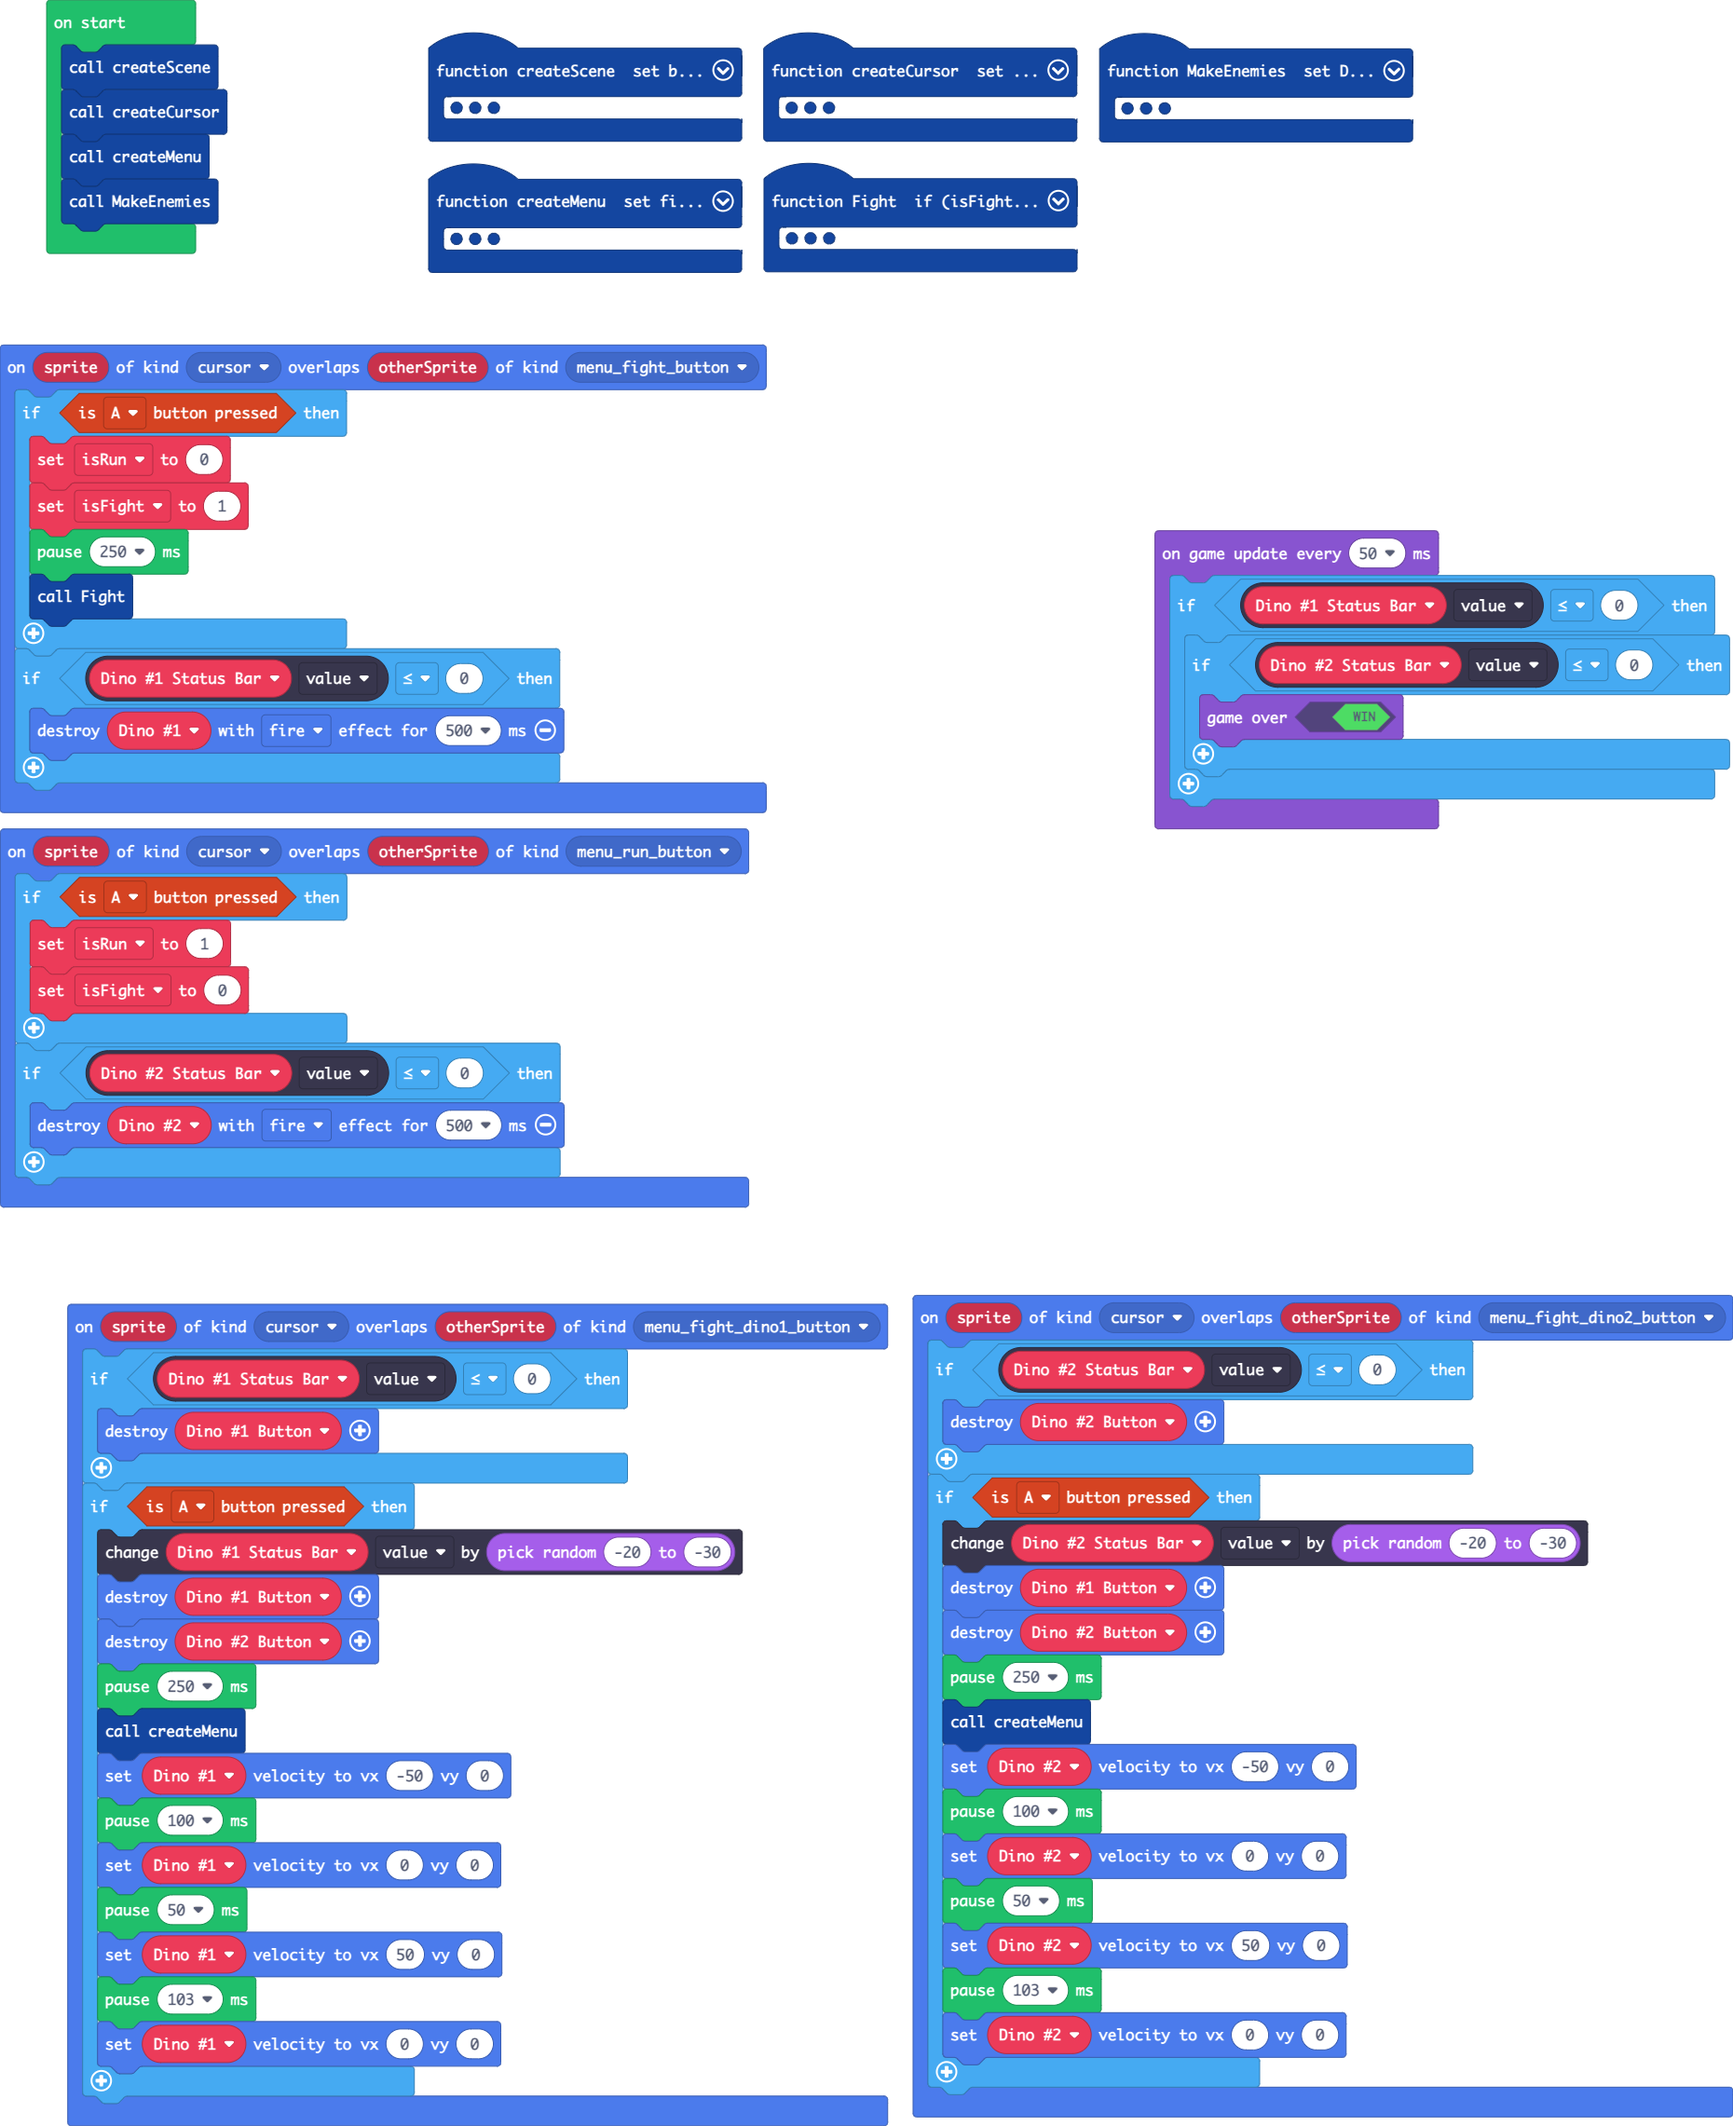
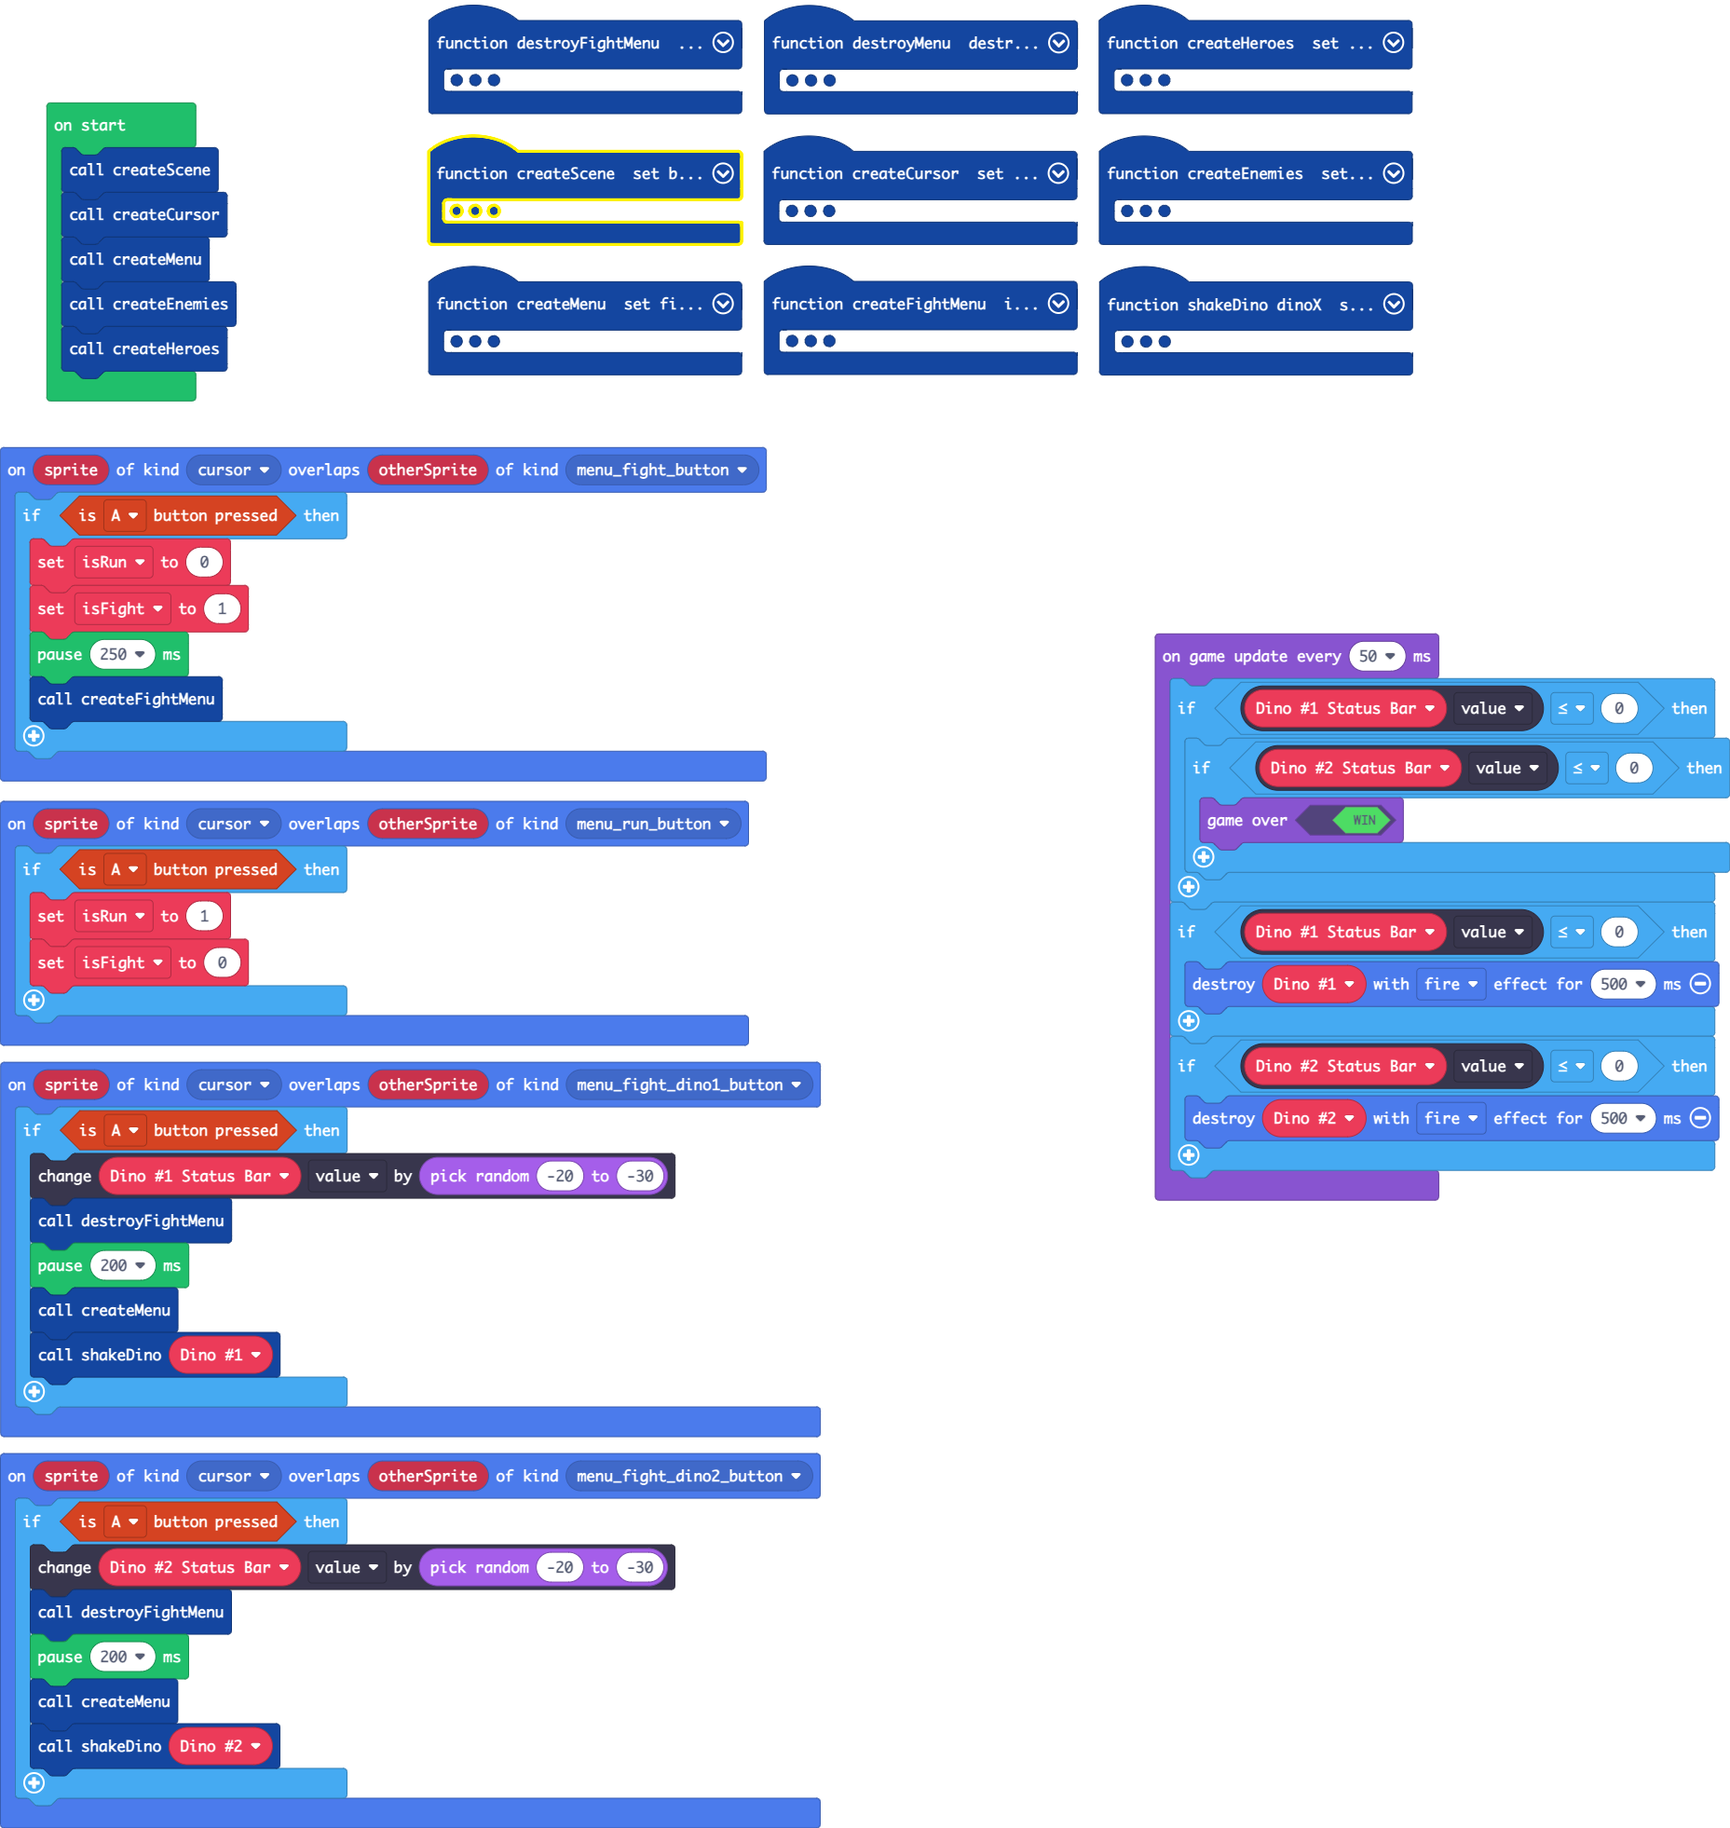
createHero function (not in createEnemies), destroy dino on game update event, rename a func to createFightMenu, made destroyMenu and destoryFightMenu, shakeDino

diff --git a/main.ts b/main.ts
@@ -6,7 +6,70 @@ namespace SpriteKind {
     export const Hero = SpriteKind.create()
     export const menu_fight_dino2_button = SpriteKind.create()
 }
-function MakeEnemies () {
+function destroyFightMenu () {
+    if (Dino_1_Status_Bar.value <= 0) {
+        sprites.destroy(Dino_1_Button)
+    }
+    if (Dino_2_Status_Bar.value <= 0) {
+        sprites.destroy(Dino_2_Button)
+    }
+    sprites.destroy(Dino_1_Button)
+    sprites.destroy(Dino_2_Button)
+}
+function createHeroes () {
+    Hero = sprites.create(img`
+        ...............ff.......
+        .............ff2ffff....
+        ............ff2feeeeff..
+        ...........ff22feeeeeff.
+        ...........feeeeffeeeef.
+        ..........fe2222eefffff.
+        ..........f2effff222efff
+        ..........fffeeeffffffff
+        ..........fee44fbe44efef
+        ...........feddfb4d4eef.
+        ..........c.eeddd4eeef..
+        ...cccccccceddee2222f...
+        ....cdddddcedd44e444f...
+        .....cccccc.eeeefffff...
+        ..........c...ffffffff..
+        ...............ff..fff..
+        `, SpriteKind.Hero)
+    tiles.placeOnTile(Hero, tiles.getTileLocation(8, 1))
+}
+sprites.onOverlap(SpriteKind.cursor, SpriteKind.menu_fight_dino1_button, function (sprite, otherSprite) {
+    if (controller.A.isPressed()) {
+        Dino_1_Status_Bar.value += randint(-20, -30)
+        destroyFightMenu()
+        pause(200)
+        createMenu()
+        shakeDino(Dino_1)
+    }
+})
+sprites.onOverlap(SpriteKind.cursor, SpriteKind.menu_fight_button, function (sprite, otherSprite) {
+    if (controller.A.isPressed()) {
+        isRun = 0
+        isFight = 1
+        pause(250)
+        createFightMenu()
+    }
+})
+sprites.onOverlap(SpriteKind.cursor, SpriteKind.menu_run_button, function (sprite, otherSprite) {
+    if (controller.A.isPressed()) {
+        isRun = 1
+        isFight = 0
+    }
+})
+function shakeDino (dinoX: Sprite) {
+    dinoX.setVelocity(-50, 0)
+    pause(100)
+    dinoX.setVelocity(0, 0)
+    pause(50)
+    dinoX.setVelocity(50, 0)
+    pause(103)
+    dinoX.setVelocity(0, 0)
+}
+function createEnemies () {
     Dino_1 = sprites.create(img`
         ........................
         ........................
@@ -69,126 +132,14 @@ function MakeEnemies () {
     Dino_2_Status_Bar.attachToSprite(Dino_2, -30, 0)
     Dino_2_Status_Bar.value = 100
     Dino_2_Status_Bar.setColor(7, 2)
-    Hero = sprites.create(img`
-        ...............ff.......
-        .............ff2ffff....
-        ............ff2feeeeff..
-        ...........ff22feeeeeff.
-        ...........feeeeffeeeef.
-        ..........fe2222eefffff.
-        ..........f2effff222efff
-        ..........fffeeeffffffff
-        ..........fee44fbe44efef
-        ...........feddfb4d4eef.
-        ..........c.eeddd4eeef..
-        ...cccccccceddee2222f...
-        ....cdddddcedd44e444f...
-        .....cccccc.eeeefffff...
-        ..........c...ffffffff..
-        ...............ff..fff..
-        `, SpriteKind.Hero)
-    tiles.placeOnTile(Hero, tiles.getTileLocation(8, 1))
-}
-sprites.onOverlap(SpriteKind.cursor, SpriteKind.menu_fight_dino1_button, function (sprite, otherSprite) {
-    if (Dino_1_Status_Bar.value <= 0) {
-        sprites.destroy(Dino_1_Button)
-    }
-    if (controller.A.isPressed()) {
-        Dino_1_Status_Bar.value += randint(-20, -30)
-        sprites.destroy(Dino_1_Button)
-        sprites.destroy(Dino_2_Button)
-        pause(250)
-        createMenu()
-        Dino_1.setVelocity(-50, 0)
-        pause(100)
-        Dino_1.setVelocity(0, 0)
-        pause(50)
-        Dino_1.setVelocity(50, 0)
-        pause(103)
-        Dino_1.setVelocity(0, 0)
-    }
-})
-sprites.onOverlap(SpriteKind.cursor, SpriteKind.menu_fight_button, function (sprite, otherSprite) {
-    if (controller.A.isPressed()) {
-        isRun = 0
-        isFight = 1
-        pause(250)
-        Fight()
-    }
-    if (Dino_1_Status_Bar.value <= 0) {
-        sprites.destroy(Dino_1, effects.fire, 500)
-    }
-})
-sprites.onOverlap(SpriteKind.cursor, SpriteKind.menu_run_button, function (sprite, otherSprite) {
-    if (controller.A.isPressed()) {
-        isRun = 1
-        isFight = 0
-    }
-    if (Dino_2_Status_Bar.value <= 0) {
-        sprites.destroy(Dino_2, effects.fire, 500)
-    }
-})
-function Fight () {
-    if (isFight == 1) {
-        sprites.destroy(fight)
-        sprites.destroy(run)
-        Dino_1_Button = sprites.create(img`
-            ..................................................
-            ..................................................
-            ..................................................
-            ..................................................
-            .11111....11...................11.11...11.........
-            .11..11.......................1111111.111.........
-            .11...11.111..11111...1111.....11.11...11.........
-            .11...11..11..11..11.11..11....11.11...11.........
-            .11...11..11..11..11.11..11....11.11...11.........
-            .11..11...11..11..11.11..11...1111111..11.........
-            .11111...1111.11..11..1111.....11.11..1111........
-            ..................................................
-            ..................................................
-            ..................................................
-            ..................................................
-            ..................................................
-            `, SpriteKind.menu_fight_dino1_button)
-        tiles.placeOnTile(Dino_1_Button, tiles.getTileLocation(6, 4))
-        Dino_2_Button = sprites.create(img`
-            ..................................................
-            ..................................................
-            ..................................................
-            ..................................................
-            .11111....11...................11.11...11111......
-            .11..11.......................1111111.11...11.....
-            .11...11.111..11111...1111.....11.11......111.....
-            .11...11..11..11..11.11..11....11.11....1111......
-            .11...11..11..11..11.11..11....11.11...1111.......
-            .11..11...11..11..11.11..11...1111111.111.........
-            .11111...1111.11..11..1111.....11.11..1111111.....
-            ..................................................
-            ..................................................
-            ..................................................
-            ..................................................
-            ..................................................
-            `, SpriteKind.menu_fight_dino2_button)
-        tiles.placeOnTile(Dino_2_Button, tiles.getTileLocation(6, 5))
-    }
 }
 sprites.onOverlap(SpriteKind.cursor, SpriteKind.menu_fight_dino2_button, function (sprite, otherSprite) {
-    if (Dino_2_Status_Bar.value <= 0) {
-        sprites.destroy(Dino_2_Button)
-    }
     if (controller.A.isPressed()) {
         Dino_2_Status_Bar.value += randint(-20, -30)
-        sprites.destroy(Dino_1_Button)
-        sprites.destroy(Dino_2_Button)
-        pause(250)
+        destroyFightMenu()
+        pause(200)
         createMenu()
-        Dino_2.setVelocity(-50, 0)
-        pause(100)
-        Dino_2.setVelocity(0, 0)
-        pause(50)
-        Dino_2.setVelocity(50, 0)
-        pause(103)
-        Dino_2.setVelocity(0, 0)
+        shakeDino(Dino_2)
     }
 })
 function createCursor () {
@@ -215,8 +166,12 @@ function createMenu () {
     run = sprites.create(assets.image`run`, SpriteKind.menu_run_button)
     tiles.placeOnTile(run, tiles.getTileLocation(5, 5))
 }
+function destroyMenu () {
+    sprites.destroy(fight)
+    sprites.destroy(run)
+}
 function createScene () {
-    scene.setBackgroundColor(15)
+    scene.setBackgroundColor(8)
     scene.setBackgroundImage(img`
         ................................................................................................................................................................
         .111111111111111111111111111111111111111111111111111111111111111111111111.1111111111111111111111111111111111111111111111111111111111111111111111111111111111111.
@@ -341,26 +296,76 @@ function createScene () {
         `)
     tiles.setCurrentTilemap(tilemap`level1`)
 }
-let cursor: Sprite = null
+function createFightMenu () {
+    if (isFight == 1) {
+        destroyMenu()
+        Dino_1_Button = sprites.create(img`
+            ..................................................
+            ..................................................
+            ..................................................
+            ..................................................
+            .11111....11...................11.11...11.........
+            .11..11.......................1111111.111.........
+            .11...11.111..11111...1111.....11.11...11.........
+            .11...11..11..11..11.11..11....11.11...11.........
+            .11...11..11..11..11.11..11....11.11...11.........
+            .11..11...11..11..11.11..11...1111111..11.........
+            .11111...1111.11..11..1111.....11.11..1111........
+            ..................................................
+            ..................................................
+            ..................................................
+            ..................................................
+            ..................................................
+            `, SpriteKind.menu_fight_dino1_button)
+        tiles.placeOnTile(Dino_1_Button, tiles.getTileLocation(6, 4))
+        Dino_2_Button = sprites.create(img`
+            ..................................................
+            ..................................................
+            ..................................................
+            ..................................................
+            .11111....11...................11.11...11111......
+            .11..11.......................1111111.11...11.....
+            .11...11.111..11111...1111.....11.11......111.....
+            .11...11..11..11..11.11..11....11.11....1111......
+            .11...11..11..11..11.11..11....11.11...1111.......
+            .11..11...11..11..11.11..11...1111111.111.........
+            .11111...1111.11..11..1111.....11.11..1111111.....
+            ..................................................
+            ..................................................
+            ..................................................
+            ..................................................
+            ..................................................
+            `, SpriteKind.menu_fight_dino2_button)
+        tiles.placeOnTile(Dino_2_Button, tiles.getTileLocation(6, 5))
+    }
+}
 let run: Sprite = null
 let fight: Sprite = null
+let cursor: Sprite = null
+let Dino_2: Sprite = null
 let isFight = 0
 let isRun = 0
-let Dino_2_Button: Sprite = null
-let Dino_1_Button: Sprite = null
-let Hero: Sprite = null
-let Dino_2_Status_Bar: StatusBarSprite = null
-let Dino_2: Sprite = null
-let Dino_1_Status_Bar: StatusBarSprite = null
 let Dino_1: Sprite = null
+let Hero: Sprite = null
+let Dino_2_Button: Sprite = null
+let Dino_2_Status_Bar: StatusBarSprite = null
+let Dino_1_Button: Sprite = null
+let Dino_1_Status_Bar: StatusBarSprite = null
 createScene()
 createCursor()
 createMenu()
-MakeEnemies()
+createEnemies()
+createHeroes()
 game.onUpdateInterval(50, function () {
     if (Dino_1_Status_Bar.value <= 0) {
         if (Dino_2_Status_Bar.value <= 0) {
             game.gameOver(true)
         }
+    }
+    if (Dino_1_Status_Bar.value <= 0) {
+        sprites.destroy(Dino_1, effects.fire, 500)
+    }
+    if (Dino_2_Status_Bar.value <= 0) {
+        sprites.destroy(Dino_2, effects.fire, 500)
     }
 })
